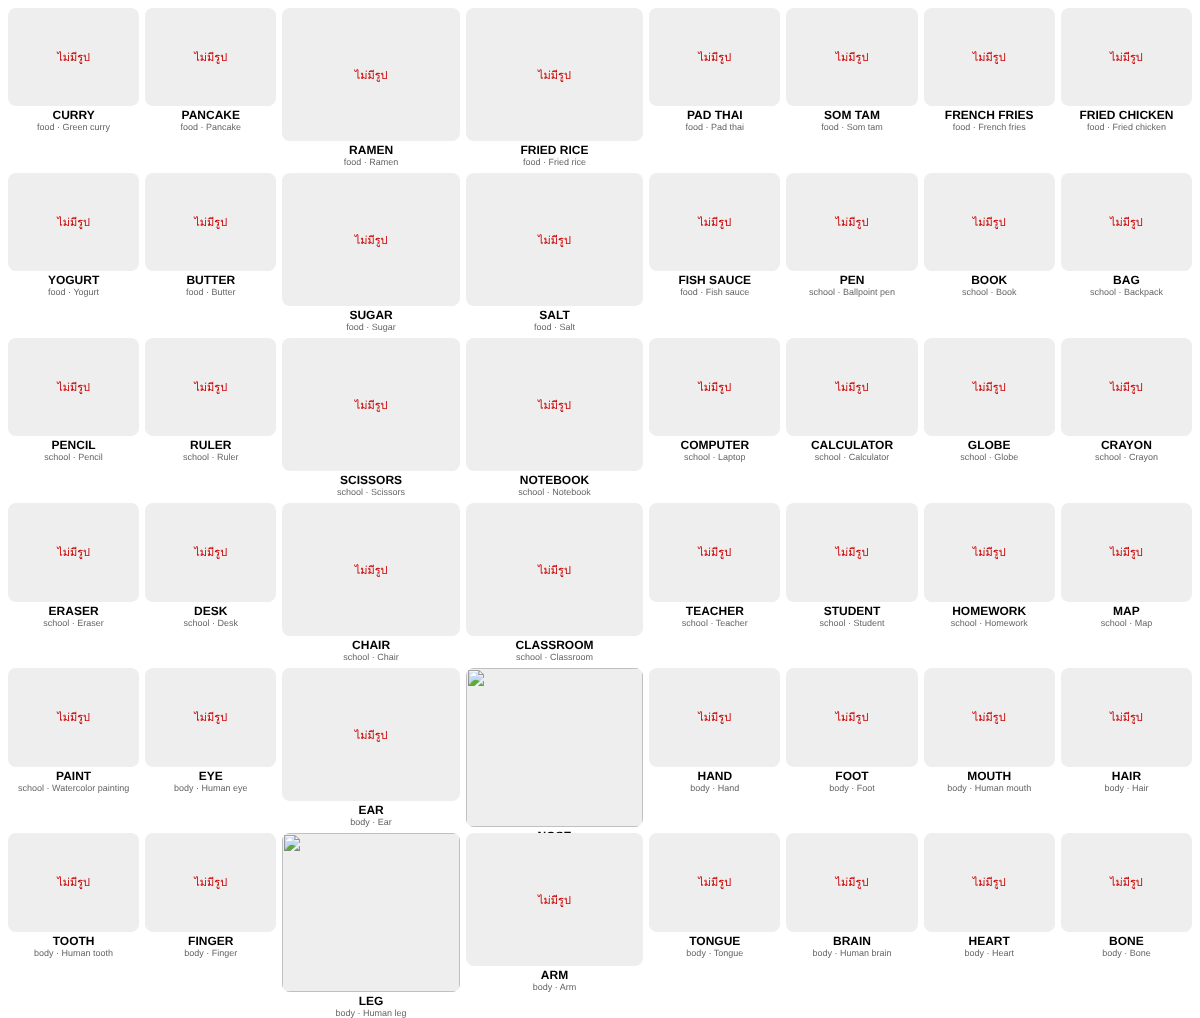
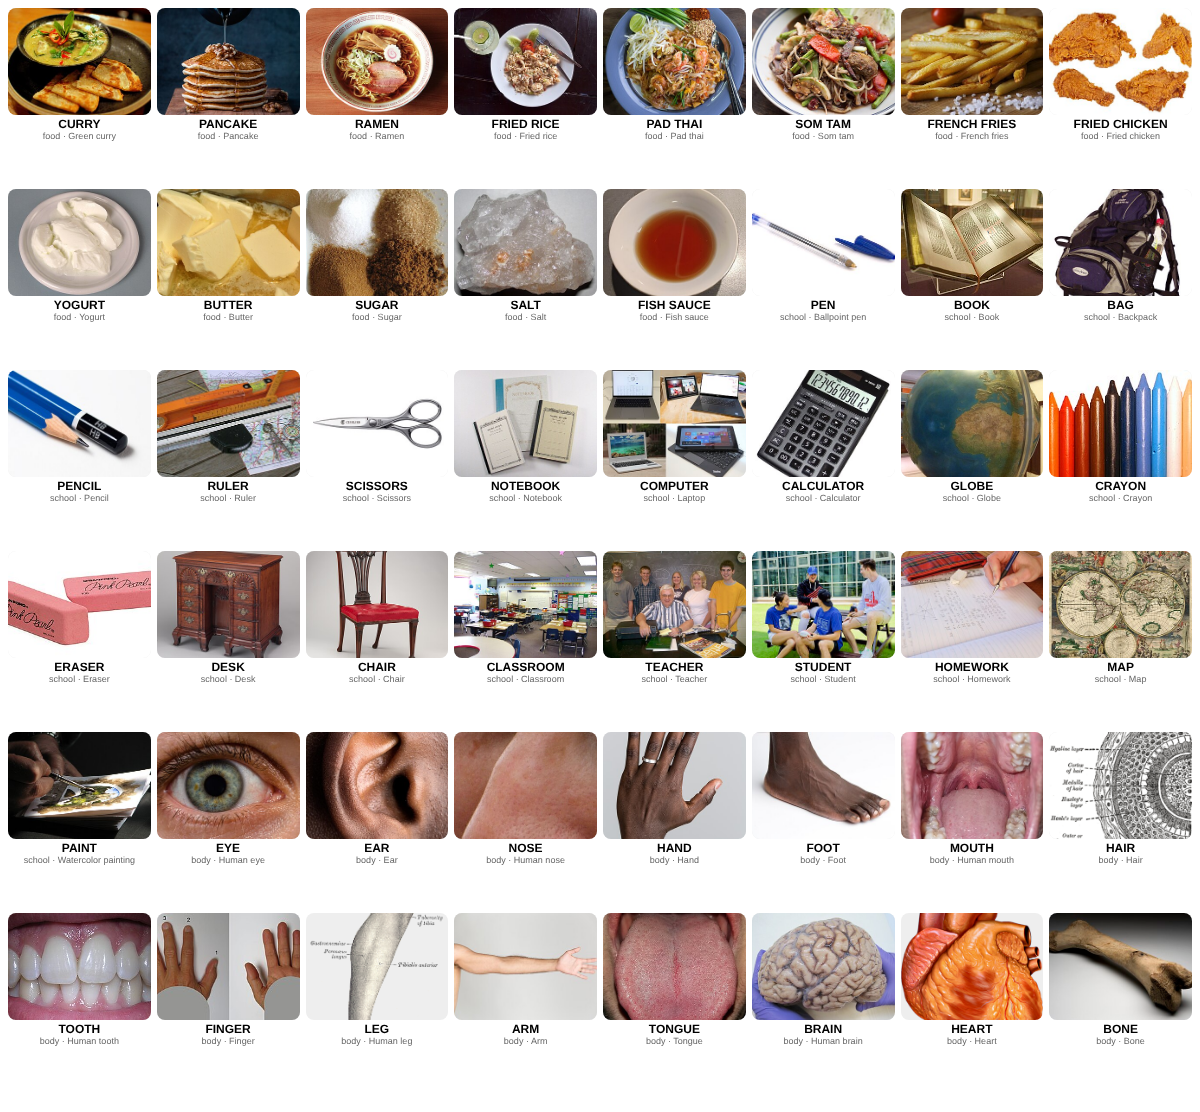
Images: better Wikipedia titles for ~60 words, emoji for abstract/unsuitable ones; prune stale files
Claude-Session: https://claude.ai/code/session_016vx82zuUoTJ23pg2H1L6SE

diff --git a/src/images.js b/src/images.js
@@ -12,19 +12,19 @@ add("animals", [
   ["CAT","Cat"],["DOG","Dog"],["FISH","Goldfish"],["BIRD","Bird"],["COW","Cattle"],["PIG","Pig"],["FROG","Frog"],["DUCK","Duck"],
   ["LION","Lion"],["BEAR","Brown bear"],["RABBIT","Rabbit"],["HORSE","Horse"],["SHEEP","Sheep"],["MONKEY","Monkey"],["ELEPHANT","Asian elephant"],
   ["TIGER","Tiger"],["PANDA","Giant panda"],["DOLPHIN","Dolphin"],["SHARK","Great white shark"],["WHALE","Humpback whale"],["OCTOPUS","Octopus"],
-  ["CRAB","Crab"],["OWL","Owl"],["SNAKE","Snake"],["TURTLE","Turtle"],["BUTTERFLY","Butterfly"],["BEE","Honey bee"],["MOUSE","House mouse"],
-  ["PENGUIN","Emperor penguin"],["FOX","Red fox"],["GIRAFFE","Giraffe"],["ZEBRA","Zebra"],["CHICKEN","Chicken"],["GOAT","Goat"],["DEER","Deer"],
+  ["CRAB","Crab"],["OWL","Owl"],["SNAKE","Snake"],["TURTLE","Green sea turtle"],["BUTTERFLY","Butterfly"],["BEE","Honey bee"],["MOUSE","House mouse"],
+  ["PENGUIN","Emperor penguin"],["FOX","Red fox"],["GIRAFFE","Giraffe"],["ZEBRA","Zebra"],["CHICKEN","Chicken"],["GOAT","Goat"],["DEER","Red deer"],
   ["CROCODILE","Crocodile"],["KANGAROO","Kangaroo"],["ANT","Ant"],["SPIDER","Spider"],
 ]);
 add("fruits", [
   ["APPLE","Apple"],["BANANA","Banana"],["ORANGE","Orange (fruit)"],["GRAPE","Grape"],["LEMON","Lemon"],["MANGO","Mango"],["CHERRY","Cherry"],
-  ["PEACH","Peach"],["STRAWBERRY","Strawberry"],["WATERMELON","Watermelon"],["PINEAPPLE","Pineapple"],["KIWI","Kiwifruit"],["BLUEBERRY","Blueberry"],
-  ["COCONUT","Coconut"],["PEAR","Pear"],["MELON","Cantaloupe"],["AVOCADO","Avocado"],["GUAVA","Guava"],["PAPAYA","Papaya"],["DURIAN","Durian"],
-  ["LYCHEE","Lychee"],["RAMBUTAN","Rambutan"],["LONGAN","Longan"],["POMELO","Pomelo"],["JACKFRUIT","Jackfruit"],
+  ["STRAWBERRY","Strawberry"],["WATERMELON","Watermelon"],["PINEAPPLE","Pineapple"],["KIWI","Actinidia deliciosa"],["BLUEBERRY","Blueberry"],
+  ["COCONUT","Coconut water"],["PEAR","Pear"],["MELON","Cantaloupe"],["AVOCADO","Avocado"],["GUAVA","Guava"],["DURIAN","Durian"],
+  ["LYCHEE","Lychee"],["RAMBUTAN","Rambutan"],["POMELO","Pomelo"],["JACKFRUIT","Jackfruit"],
 ]);
 add("food", [
   ["RICE","Cooked rice"],["BREAD","Bread"],["EGG","Fried egg"],["MILK","Milk"],["PIZZA","Pizza"],["CAKE","Birthday cake"],["CARROT","Carrot"],
-  ["CORN","Sweet corn"],["NOODLES","Noodle"],["SOUP","Soup"],["SALAD","Salad"],["SANDWICH","Sandwich"],["HAMBURGER","Hamburger"],["SUSHI","Sushi"],
+  ["CORN","Sweet corn"],["NOODLES","Instant noodle"],["SOUP","Chicken soup"],["SALAD","Salad"],["SANDWICH","Sandwich"],["HAMBURGER","Hamburger"],["SUSHI","Sushi"],
   ["ICECREAM","Ice cream"],["COOKIE","Chocolate chip cookie"],["DONUT","Doughnut"],["CHOCOLATE","Chocolate"],["CHEESE","Cheese"],["CANDY","Candy"],
   ["HOTDOG","Hot dog"],["TACO","Taco"],["PASTA","Spaghetti"],["MUSHROOM","Edible mushroom"],["TOMATO","Tomato"],["POTATO","Potato"],
   ["BROCCOLI","Broccoli"],["HONEY","Honey"],["COFFEE","Coffee"],["TEA","Tea"],["JUICE","Orange juice"],["WATER","Drinking water"],
@@ -34,16 +34,16 @@ add("food", [
 add("school", [
   ["PEN","Ballpoint pen"],["BOOK","Book"],["BAG","Backpack"],["PENCIL","Pencil"],["RULER","Ruler"],["SCISSORS","Scissors"],["NOTEBOOK","Notebook"],
   ["COMPUTER","Laptop"],["CALCULATOR","Calculator"],["GLOBE","Globe"],["CRAYON","Crayon"],["ERASER","Eraser"],["DESK","Desk"],["CHAIR","Chair"],
-  ["CLASSROOM","Classroom"],["TEACHER","Teacher"],["STUDENT","Student"],["HOMEWORK","Homework"],["MAP","Map"],["PAINT","Watercolor painting"],
+  ["CLASSROOM","Classroom"],["TEACHER","Teaching"],["STUDENT","Student"],["HOMEWORK","Homework"],["MAP","Map"],["PAINT","Paint"],
 ]);
 add("body", [
-  ["EYE","Human eye"],["EAR","Ear"],["NOSE","Human nose"],["HAND","Hand"],["FOOT","Foot"],["MOUTH","Human mouth"],["HAIR","Hair"],["TOOTH","Human tooth"],
-  ["FINGER","Finger"],["LEG","Human leg"],["ARM","Arm"],["TONGUE","Tongue"],["BRAIN","Human brain"],["HEART","Heart"],["BONE","Bone"],
-  ["SKIN","Human skin"],["BACK","Human back"],["NECK","Neck"],["SHOULDER","Shoulder"],["STOMACH","Stomach"],
+  ["EYE","Human eye"],["EAR","Ear"],["NOSE","Human nose"],["HAND","Hand"],["FOOT","Foot"],["MOUTH","Human mouth"],["HAIR","Long hair"],["TOOTH","Human tooth"],
+  ["FINGER","Finger"],["ARM","Arm"],["TONGUE","Tongue"],["BRAIN","Human brain"],["HEART","Heart"],["BONE","Bone"],
+  ["SHOULDER","Shoulder"],
 ]);
 add("weather", [
-  ["SUN","Sun"],["RAIN","Rain"],["SNOW","Snow"],["CLOUD","Cloud"],["WIND","Wind"],["STORM","Thunderstorm"],["RAINBOW","Rainbow"],["FOG","Fog"],
-  ["SNOW","Snow"],["SUNNY","Sunlight"],["THUNDER","Lightning"],["WARM","Sunlight"],["DRY","Drought"],["HOT","Heat wave"],["COLD","Winter"],
+  ["SUN","Sunrise"],["RAIN","Rain"],["SNOW","Snow"],["CLOUD","Cumulus cloud"],["WIND","Wind"],["STORM","Thunderstorm"],["RAINBOW","Rainbow"],["FOG","Fog"],
+  ["SNOW","Snow"],["SUNNY","Sunlight"],["THUNDER","Lightning"],["DRY","Drought"],["COLD","Winter"],
 ]);
 add("vehicles", [
   ["CAR","Car"],["BUS","Bus"],["TRAIN","Train"],["PLANE","Airliner"],["BOAT","Boat"],["BIKE","Bicycle"],["TRUCK","Truck"],["TAXI","Taxicab"],
@@ -51,46 +51,46 @@ add("vehicles", [
   ["POLICE CAR","Police car"],["ROCKET","Rocket"],["SUBMARINE","Submarine"],["VAN","Van"],["SCOOTER","Kick scooter"],["TUK-TUK","Auto rickshaw"],
 ]);
 add("jobs", [
-  ["DOCTOR","Physician"],["NURSE","Nursing"],["TEACHER","Teacher"],["FARMER","Farmer"],["COOK","Cook (profession)"],["PILOT","Aircraft pilot"],
-  ["POLICE","Police officer"],["FIREFIGHTER","Firefighter"],["ARTIST","Painting"],["ENGINEER","Engineer"],["SINGER","Singing"],["ACTOR","Actor"],
-  ["SOLDIER","Soldier"],["WAITER","Waiting staff"],["SCIENTIST","Scientist"],["DRIVER","Bus driver"],["BUILDER","Construction worker"],
-  ["DENTIST","Dentist"],["BAKER","Baker"],["CHEF","Chef"],
+  ["DOCTOR","Pediatrics"],["NURSE","Nursing"],["TEACHER","Teaching"],["FARMER","Farmer"],["COOK","Cooking"],["PILOT","Aircraft pilot"],
+  ["POLICE","Police officer"],["FIREFIGHTER","Firefighter"],["ARTIST","Painting"],["ENGINEER","Engineer"],["SINGER","Singing"],["ACTOR","Acting"],
+  ["SOLDIER","Soldier"],["WAITER","Waiting staff"],["SCIENTIST","Laboratory"],["DRIVER","Bus driver"],["BUILDER","Construction worker"],
+  ["DENTIST","Dentist"],["BAKER","Baker"],["CHEF","Chef's uniform"],
 ]);
 add("clothes", [
   ["SHIRT","Dress shirt"],["TSHIRT","T-shirt"],["PANTS","Jeans"],["DRESS","Dress"],["SHOES","Sneakers"],["SOCKS","Sock"],["HAT","Sun hat"],
-  ["GLASSES","Glasses"],["SCARF","Scarf"],["GLOVES","Glove"],["JACKET","Jacket"],["SKIRT","Skirt"],["BOOTS","Boot"],["SANDALS","Sandal"],
-  ["UMBRELLA","Umbrella"],["BELT","Belt (clothing)"],["TIE","Necktie"],["COAT","Coat (clothing)"],["SWIMSUIT","Swimsuit"],["UNIFORM","School uniform"],
+  ["GLASSES","Glasses"],["SCARF","Scarf"],["GLOVES","Glove"],["JACKET","Jacket"],["BOOTS","Boot"],["SANDALS","Sandal"],
+  ["UMBRELLA","Umbrella"],["BELT","Belt (clothing)"],["TIE","Necktie"],["COAT","Coat (clothing)"],["UNIFORM","School uniforms in Thailand"],
 ]);
 add("home", [
-  ["BED","Bed"],["CHAIR","Chair"],["TABLE","Table (furniture)"],["DOOR","Door"],["WINDOW","Window"],["TV","Television set"],["PHONE","Smartphone"],
-  ["CLOCK","Alarm clock"],["LAMP","Lamp"],["SOFA","Couch"],["MIRROR","Mirror"],["BATH","Bathtub"],["FRIDGE","Refrigerator"],["STOVE","Kitchen stove"],
-  ["SINK","Sink"],["TOILET","Flush toilet"],["SHOWER","Shower"],["BOOKSHELF","Bookcase"],["COMPUTER","Desktop computer"],["KITCHEN","Kitchen"],
-  ["TOOTHBRUSH","Toothbrush"],["TOWEL","Towel"],["SOAP","Soap"],["PILLOW","Pillow"],["BLANKET","Blanket"],["KEY","Key (lock)"],["CUP","Mug"],
-  ["PLATE","Plate (dishware)"],["SPOON","Spoon"],["FORK","Fork"],
+  ["BED","Bedroom"],["CHAIR","Chair"],["TABLE","Dining room"],["WINDOW","Window"],["TV","Television"],["PHONE","Smartphone"],
+  ["CLOCK","Alarm clock"],["LAMP","Lampshade"],["SOFA","Couch"],["MIRROR","Mirror"],["BATH","Bathtub"],["FRIDGE","Refrigerator"],["STOVE","Kitchen stove"],
+  ["SINK","Sink"],["TOILET","Flush toilet"],["BOOKSHELF","Bookcase"],["COMPUTER","Personal computer"],["KITCHEN","Kitchen"],
+  ["TOOTHBRUSH","Toothbrush"],["TOWEL","Towel"],["SOAP","Soap"],["PILLOW","Pillow"],["BLANKET","Quilt"],["KEY","Key (lock)"],["CUP","Mug"],
+  ["PLATE","Tableware"],["SPOON","Spoon"],["FORK","Fork"],
 ]);
 add("nature", [
-  ["TREE","Tree"],["FLOWER","Flower"],["MOUNTAIN","Mountain"],["RIVER","River"],["OCEAN","Ocean"],["GRASS","Grass"],["LEAF","Leaf"],["ROCK","Rock (geology)"],
-  ["MOON","Moon"],["STAR","Star"],["SUN","Sun"],["CLOUD","Cumulus cloud"],["LAKE","Lake"],["FOREST","Forest"],["DESERT","Desert"],["ISLAND","Island"],
-  ["CAVE","Cave"],["WATERFALL","Waterfall"],["VOLCANO","Volcano"],["RAINBOW","Rainbow"],["SKY","Sky"],["FIRE","Fire"],
+  ["TREE","Tree"],["FLOWER","Flower"],["MOUNTAIN","Mountain"],["RIVER","River"],["OCEAN","Sea"],["GRASS","Grass"],["LEAF","Leaf"],["ROCK","Pebble"],
+  ["MOON","Moon"],["STAR","Night sky"],["SUN","Sunset"],["CLOUD","Cumulus cloud"],["LAKE","Lake"],["FOREST","Forest"],["DESERT","Desert"],["ISLAND","Phi Phi Islands"],
+  ["CAVE","Cave"],["WATERFALL","Waterfall"],["VOLCANO","Volcano"],["RAINBOW","Rainbow"],["SKY","Daylight"],["FIRE","Fire"],
 ]);
 add("sports", [
   ["FOOTBALL","Association football"],["BASKETBALL","Basketball"],["TENNIS","Tennis"],["SWIMMING","Swimming (sport)"],["RUNNING","Running"],
   ["CYCLING","Cycling"],["BOXING","Muay Thai"],["GOLF","Golf"],["VOLLEYBALL","Volleyball"],["BASEBALL","Baseball"],["BADMINTON","Badminton"],
-  ["SKATEBOARD","Skateboarding"],["SKIING","Skiing"],["SURFING","Surfing"],["YOGA","Yoga"],["TABLE TENNIS","Table tennis"],["DANCING","Dance"],
+  ["SKATEBOARD","Skateboarding"],["SKIING","Alpine skiing"],["SURFING","Surfing"],["YOGA","Yoga as exercise"],["TABLE TENNIS","Table tennis"],["DANCING","Dance"],
   ["TROPHY","Trophy"],["MEDAL","Gold medal"],["JUMP","Long jump"],
 ]);
 add("actions", [
-  ["RUN","Running"],["WALK","Walking"],["EAT","Eating"],["DRINK","Drinking"],["SLEEP","Sleep"],["READ","Reading"],["WRITE","Handwriting"],
-  ["SING","Singing"],["DANCE","Dance"],["SWIM","Swimming"],["PLAY","Play (activity)"],["COOK","Cooking"],["WASH","Hand washing"],["DRAW","Drawing"],
+  ["RUN","Running"],["WALK","Pedestrian"],["EAT","Lunch"],["DRINK","Drink"],
+  ["SING","Singing"],["DANCE","Dance"],["SWIM","Swimming"],["PLAY","Toy"],["COOK","Cooking"],["WASH","Hand washing"],["DRAW","Colored pencil"],
   ["LAUGH","Laughter"],["CRY","Crying"],["CLIMB","Rock climbing"],
 ]);
 add("toys", [
-  ["BALL","Ball"],["DOLL","Doll"],["KITE","Kite"],["ROBOT","Robot"],["PUZZLE","Jigsaw puzzle"],["BLOCKS","Toy block"],["TEDDY BEAR","Teddy bear"],
-  ["BALLOON","Toy balloon"],["DRUM","Drum kit"],["GUITAR","Guitar"],["PIANO","Piano"],["YO-YO","Yo-yo"],
+  ["BALL","Ball"],["DOLL","Rag doll"],["KITE","Kite"],["ROBOT","Robot"],["PUZZLE","Jigsaw puzzle"],["BLOCKS","Toy block"],["TEDDY BEAR","Teddy bear"],
+  ["BALLOON","Toy balloon"],["DRUM","Snare drum"],["GUITAR","Guitar"],["PIANO","Piano"],["YO-YO","Yo-yo"],
 ]);
 add("places", [
-  ["SCHOOL","School"],["HOSPITAL","Hospital"],["MARKET","Marketplace"],["TEMPLE","Wat"],["PARK","Park"],["ZOO","Zoo"],["BEACH","Beach"],["FARM","Farm"],
-  ["RESTAURANT","Restaurant"],["BANK","Bank"],["AIRPORT","Airport"],["LIBRARY","Library"],["SUPERMARKET","Supermarket"],["PLAYGROUND","Playground"],
+  ["SCHOOL","School"],["HOSPITAL","Hospital"],["MARKET","Floating market"],["TEMPLE","Wat"],["PARK","Park"],["ZOO","Zoo"],["BEACH","Beach"],["FARM","Farm"],
+  ["RESTAURANT","Restaurant"],["BANK","Bank"],["AIRPORT","Airport terminal"],["LIBRARY","Library"],["SUPERMARKET","Supermarket"],["PLAYGROUND","Playground"],
 ]);
 
 export const IMAGE_TITLES = T;
